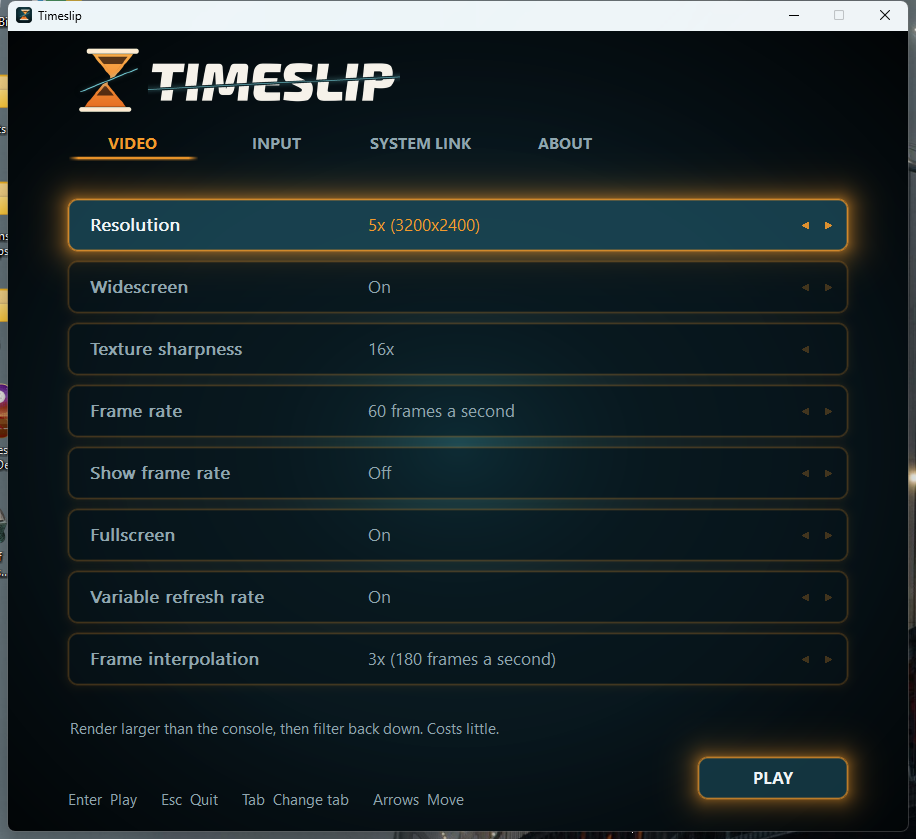
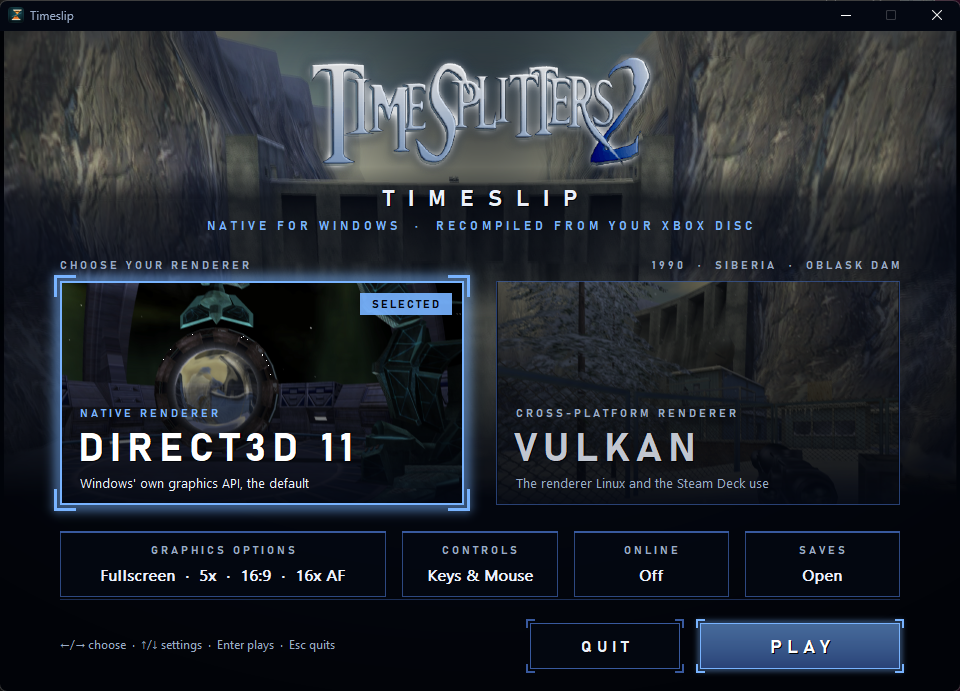
README: the new launcher
Its pictures retaken (the main screen and the first start), the settings
named as the launcher now names them (Graphics Options, Controls, Online,
the renderer cards, and the renderer key), and Credits saying where the
launcher's art comes from: the player's own copy of the game, made once
by make_disc_art.py or make_art.sh.

diff --git a/README.md b/README.md
@@ -24,7 +24,7 @@ Rendered at 5 times the console's resolution in widescreen, captured from the
 game as it runs (the two recordings in `tests/lockstep`).
 
 <p align="center">
-<img src="docs/screenshots/launcher.png" width="45%" alt="The launcher's settings">
+<img src="docs/screenshots/launcher.png" width="45%" alt="The launcher: the renderer, the settings, Play">
 <img src="docs/screenshots/launcher-setup.png" width="45%" alt="The first start: drop the game on it">
 </p>
 
@@ -120,7 +120,7 @@ laid out like a modern PC shooter:
 | Menus | W A S D or arrows to move, Enter, Space or F to choose, Backspace to go back |
 
 These are the game's own "Default" control configuration (Options > Player
-Options > Controls); change the keys in the launcher's Input tab.
+Options > Controls); change the keys in the launcher's Controls.
 
 While playing:
 
@@ -134,7 +134,8 @@ While playing:
 
 ## Settings
 
-In the launcher's Video tab:
+The launcher's two cards choose the renderer: Direct3D 11 (the default) or
+Vulkan on Windows; the Mac draws with Metal. Its Graphics Options:
 
 | Setting | What it does |
 | --- | --- |
@@ -160,9 +161,9 @@ Windows, and macOS between copies on one Mac so far (see
 [docs/multiplayer.md](docs/multiplayer.md)). On Linux it is not checked yet.
 
 One player hosts a session and everyone else joins it. Up to 16 copies can be
-in one session. In the launcher's System Link tab:
+in one session. In the launcher's Online:
 
-- Host a session. The tab shows the address to give the others: your PC's
+- Host a session. The launcher shows the address to give the others: your PC's
   address on your own network, and your internet address once your router
   answers. With Open the router on (the default), the game asks your router
   (over UPnP) to forward UDP port 27610 while you host. If your router does not
@@ -345,6 +346,7 @@ file:
 | --- | --- | --- |
 | Resolution | `resolution_scale` | `RECOMP_RES_SCALE` |
 | Widescreen | `widescreen` | `RECOMP_WIDESCREEN` |
+| Renderer | `renderer` (`auto`, `d3d11`, `vulkan`, `metal`) | `RECOMP_D3D8_BACKEND` |
 | Texture sharpness | `anisotropy` | `RECOMP_ANISO` |
 | Frame rate | `frame_cap` (0 for uncapped) | `RECOMP_FPS_CAP` |
 | Show frame rate | `fps_overlay` | `RECOMP_FPS_OVERLAY` |
@@ -421,16 +423,20 @@ Since November 2026 the two are developed separately and nothing is sent
 back upstream. Thank you to phobos665 and everyone who worked on the
 originals; phobos665 can be supported on [Ko-fi](https://ko-fi.com/phobos665).
 
-Timeslip's own icon, logo and box art (`art/`) are drawn by
-`tools/art/make_art.py` and set in [Exo 2](https://github.com/googlefonts/Exo-2.0)
-(SIL Open Font License, `tools/art/fonts/OFL.txt`); the launcher shows that
-mark. Nothing of the game's art is in this repository or its releases, and
-the launcher downloads none of it unless you ask: a `backdrop` and `logo`
-(JPEG or PNG) in an `art/` folder beside the launcher are shown instead,
-which `mac/make_art.sh` makes from your own copy of the game on a Mac, and
-`RECOMP_LAUNCHER_FETCH_ART=1` fetches the game's key art and logo once from
-the [LaunchBox Games Database](https://gamesdb.launchbox-app.com/)
-(`src/launcher_theme_timeslip.h`).
+Timeslip's own icon, logo and box art (`art/`), for the app, its shortcuts
+and this repository, are drawn by `tools/art/make_art.py` and set in
+[Exo 2](https://github.com/googlefonts/Exo-2.0) (SIL Open Font License,
+`tools/art/fonts/OFL.txt`).
+
+The launcher shows the game's own logo and art, made from your own copy of
+the game: `tools/make_disc_art.py` on Windows (the installer,
+`tools/install_windows.ps1`, runs it once) and `mac/make_art.sh` on a Mac
+play into the Siberia level and keep a few of its frames. None of the
+game's art files are in this repository or its releases, and nothing is
+downloaded unless you ask: `RECOMP_LAUNCHER_FETCH_ART=1` fetches the key art
+and logo once from the [LaunchBox Games Database](https://gamesdb.launchbox-app.com/)
+(`src/launcher_theme_timeslip.h`). Without either, the launcher writes the
+game's name.
 
 # Legal
 
